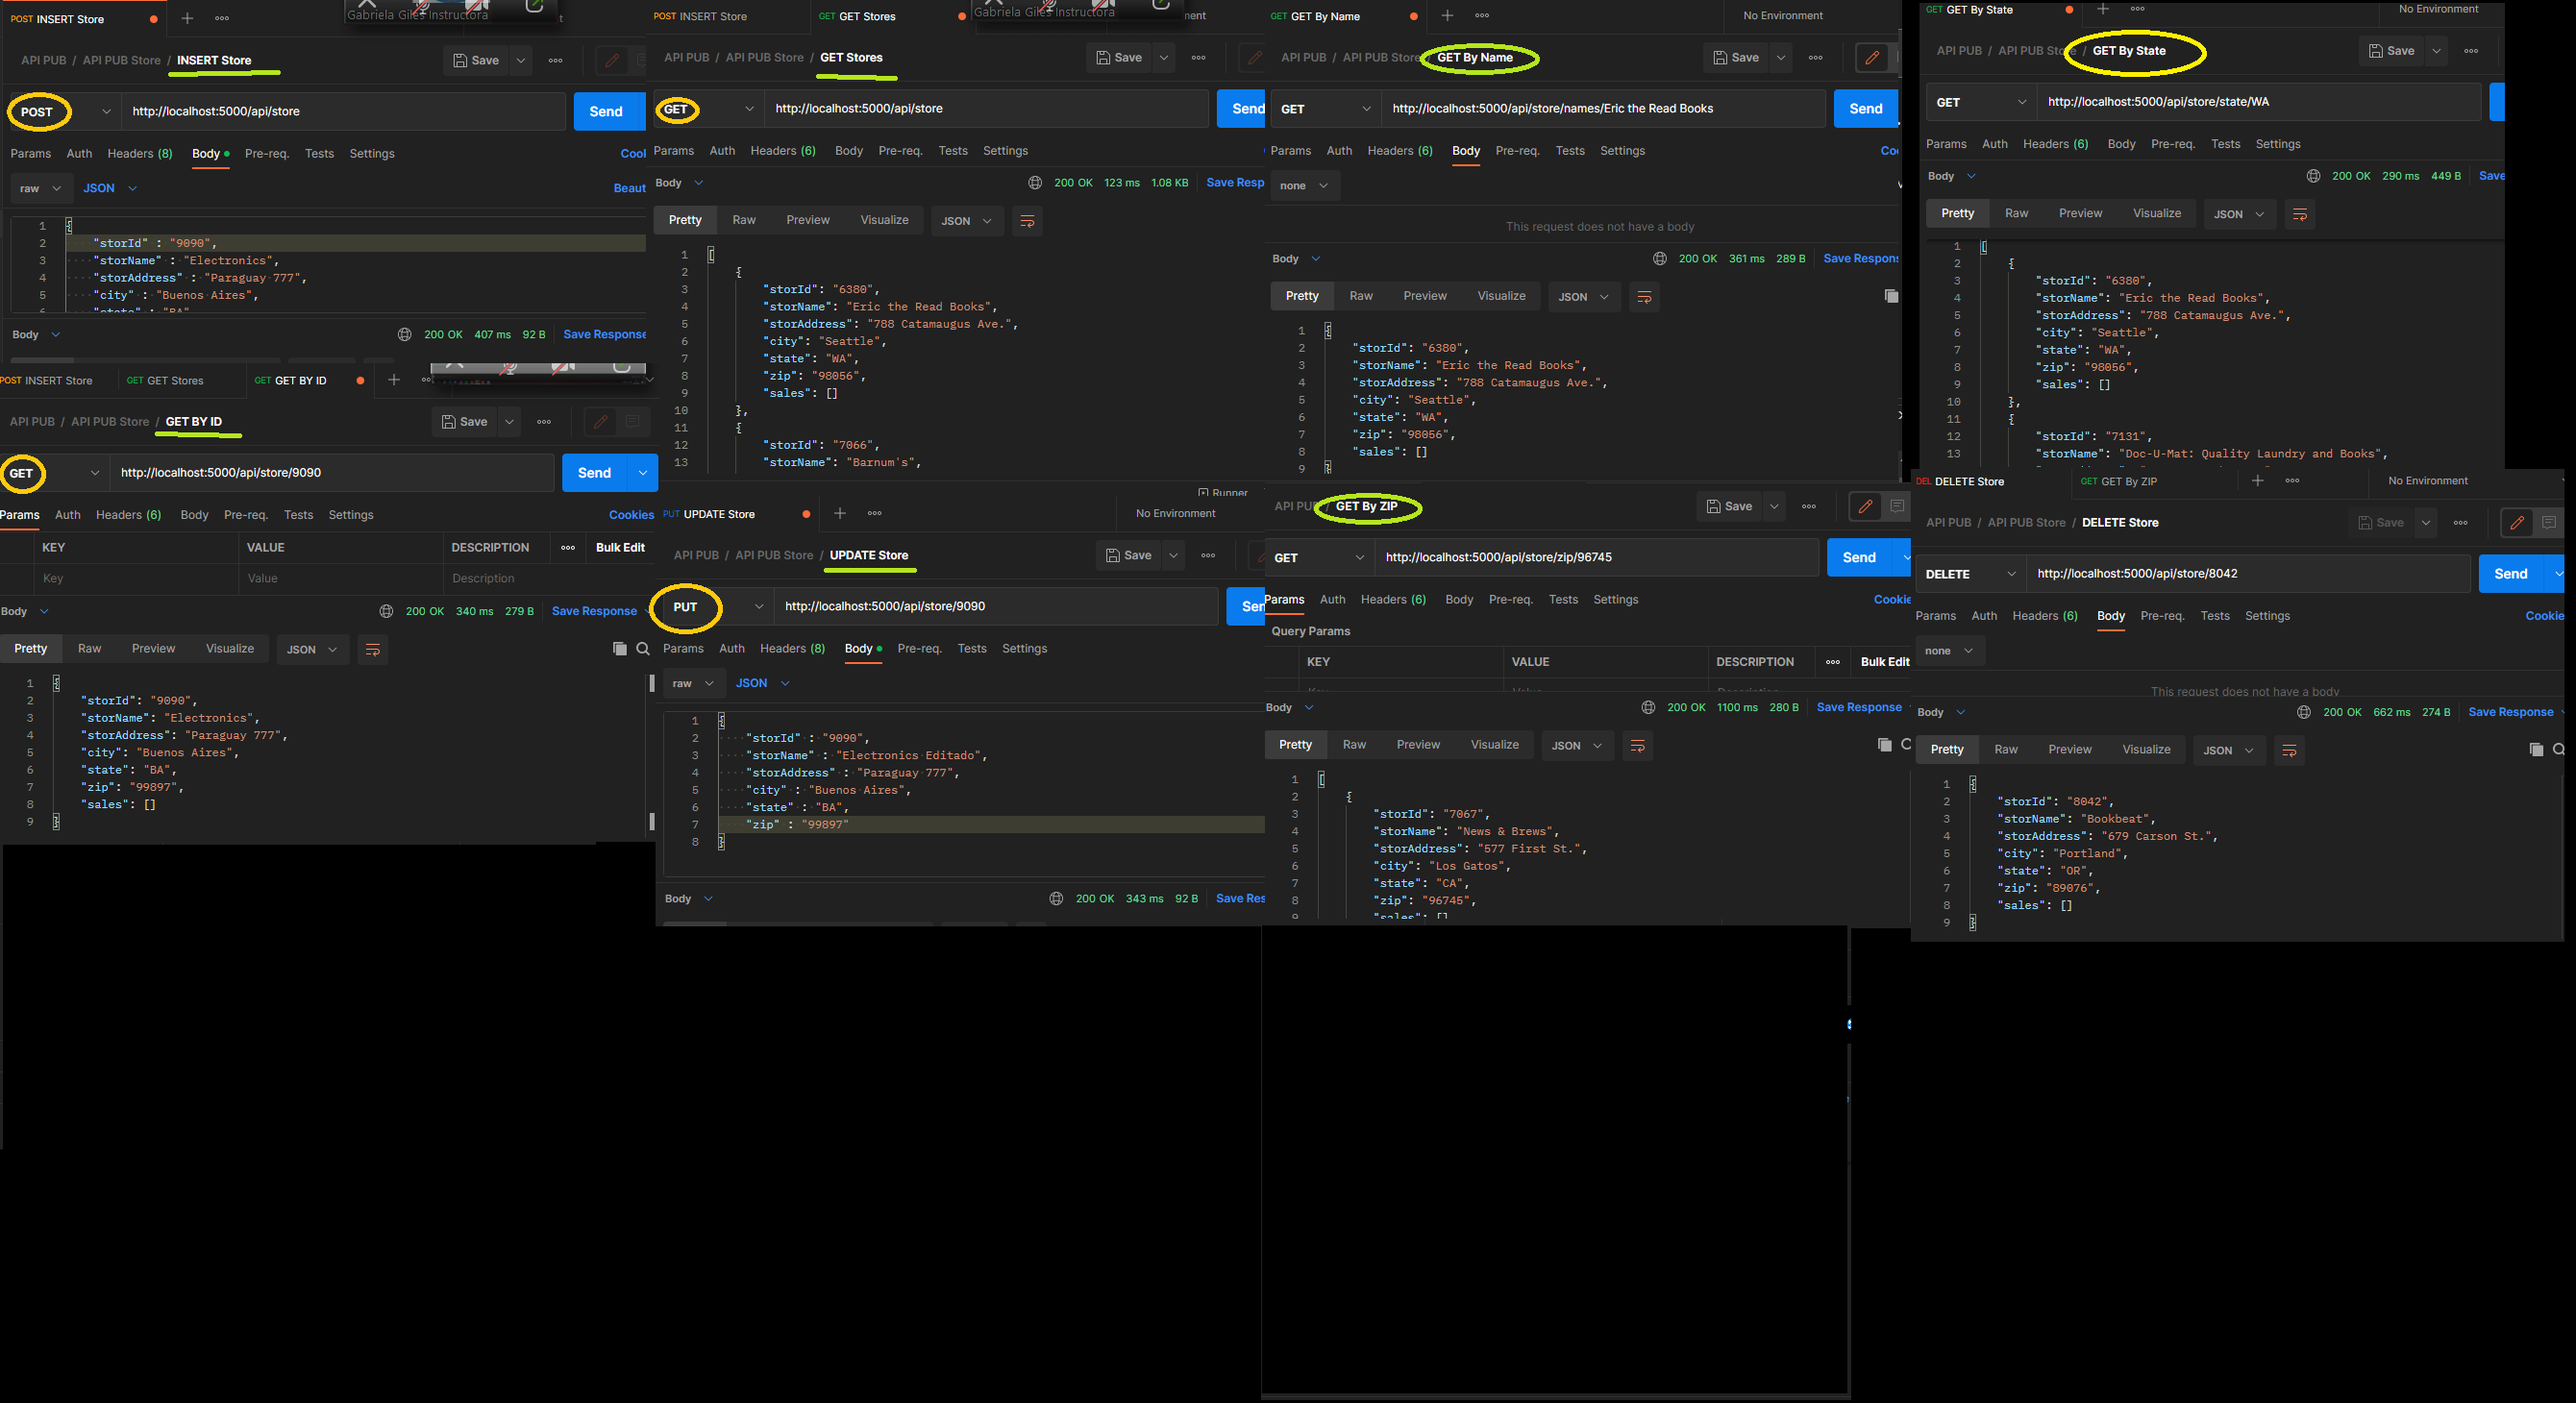
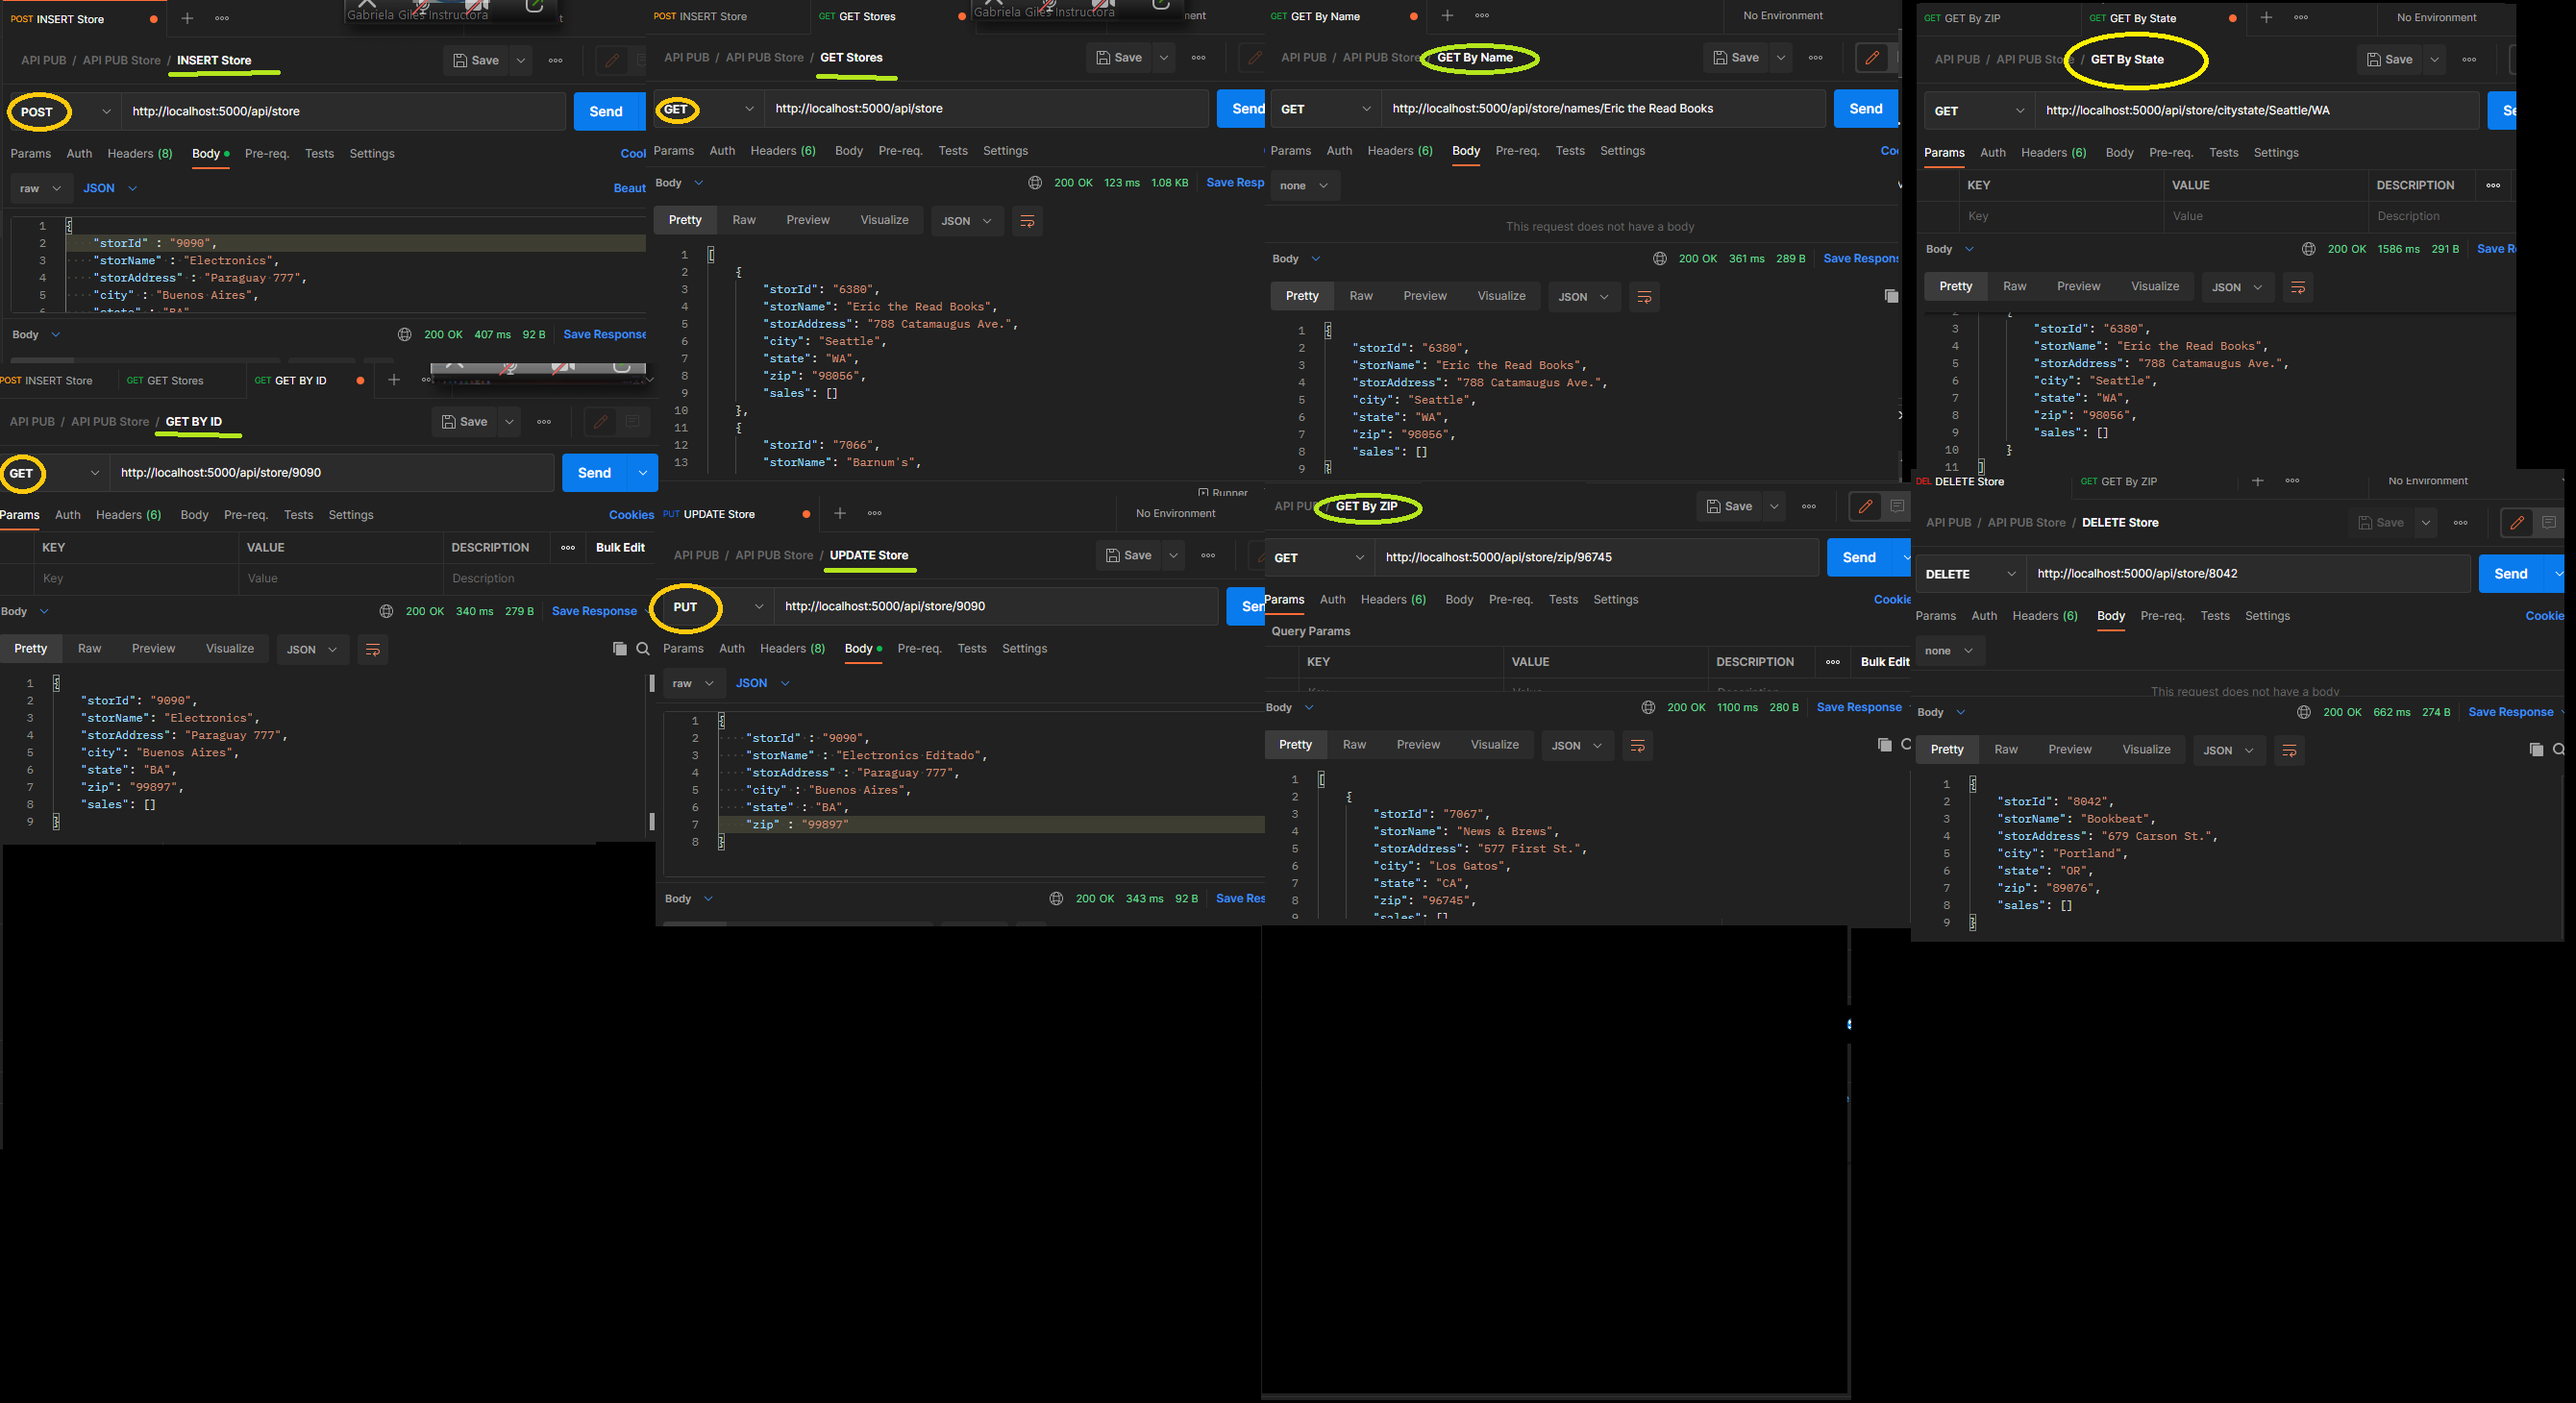
update-commit

Changed region(s): [[0.7433, 0.0, 0.8981, 0.339], [0.8981, 0.0, 0.991, 0.339]]

diff --git a/WebAPIPubs/Controllers/StoreController.cs b/WebAPIPubs/Controllers/StoreController.cs
@@ -55,11 +55,11 @@ namespace WebAPIPubs.Controllers
         }
 
         //GetByCityState
-        [HttpGet("state/{state}")]
-        public ActionResult<IEnumerable<Store>> GetByCityState(string state)
+        [HttpGet("citystate/{city}/{state}")]
+        public ActionResult<IEnumerable<Store>> GetByCityState(string city, string state)
         {
             List<Store> stores = (from s in context.Stores
-                                  where state == s.State
+                                  where state == s.State && city == s.City
                                   select s).ToList();
             return stores;
         }
